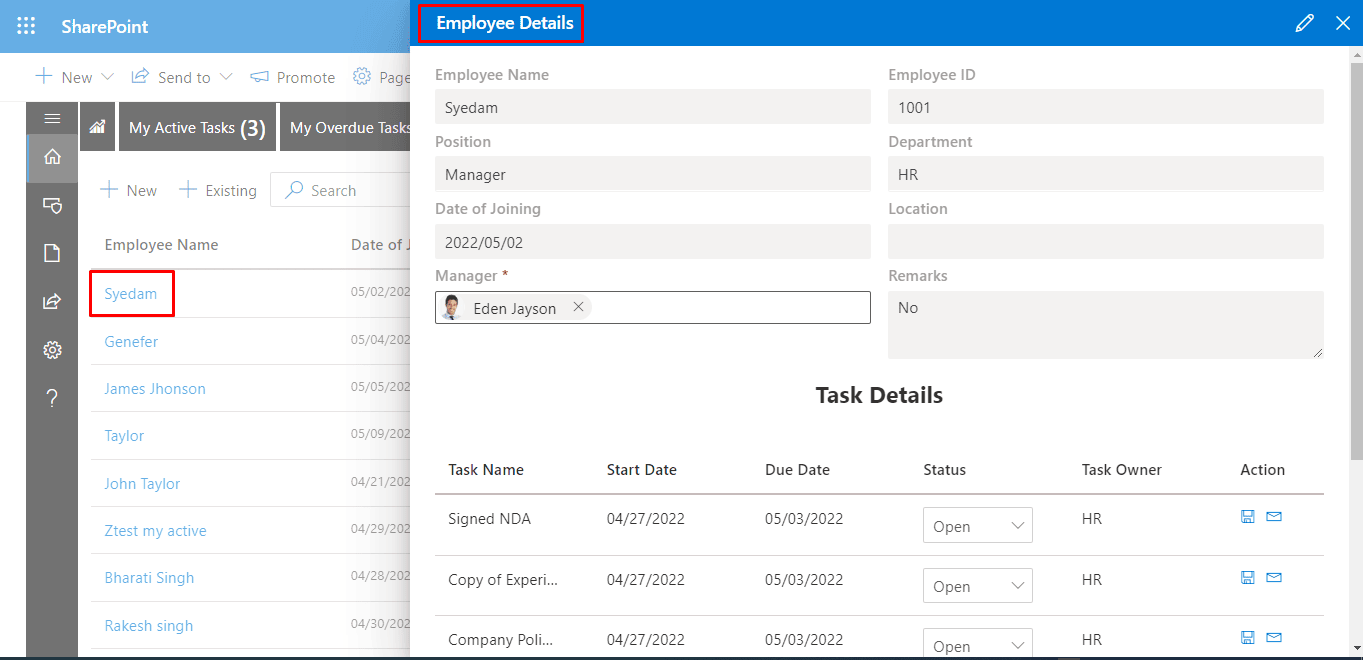
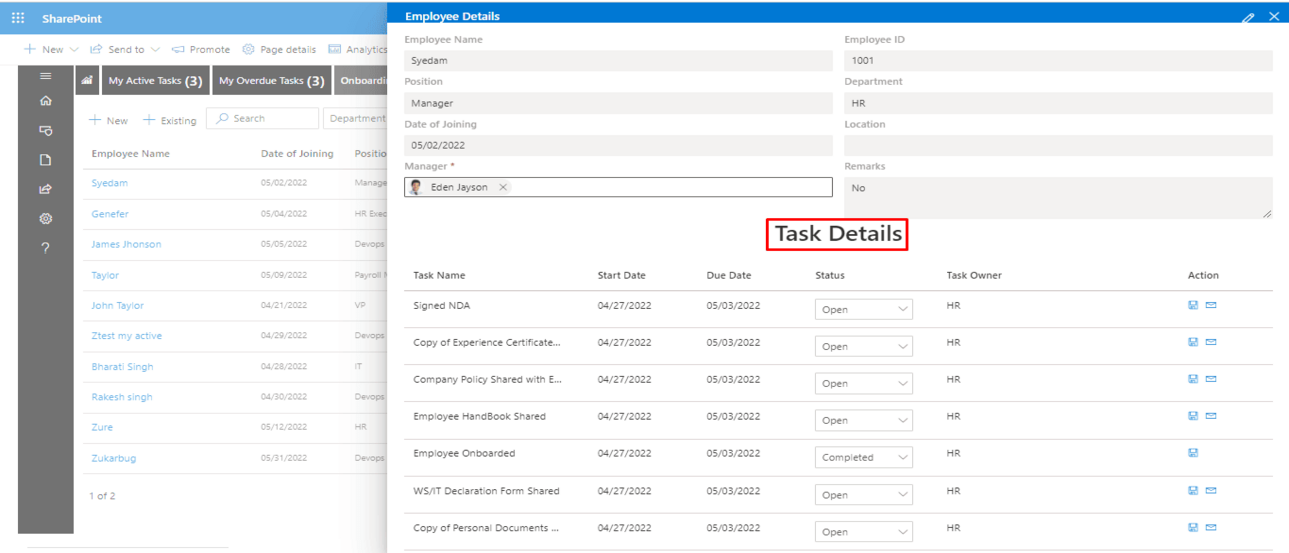
update content

diff --git a/employee-on-boarding/modern/admin/Process/onboarding/index.html b/employee-on-boarding/modern/admin/Process/onboarding/index.html
@@ -310,7 +310,7 @@ height="auto"></div>
         
          <br>
        </li>
-       <div><img src="new.png" onclick="openModal('new.png')" alt="" width="100%"
+       <div><img src="confidential_.png" onclick="openModal('confidential_.png')" alt="" width="100%"
         height="auto" ></div>
         <br>
        <li>
@@ -319,7 +319,7 @@ height="auto"></div>
          
        </li>
        <br>
-       <div><img src="new.png" onclick="openModal('new.png')" alt="" width="100%"
+       <div><img src="work.png" onclick="openModal('work.png')" alt="" width="100%"
         height="auto"  ></div>
        <br>
        <li>
@@ -328,7 +328,7 @@ height="auto"></div>
          
            <br>
        </li>
-       <div><img src="new.png" onclick="openModal('new.png')" alt="" width="100%"
+       <div><img src="task.png" onclick="openModal('task.png')" alt="" width="100%"
         height="auto"></div>
     </ol>
     <br>
@@ -342,20 +342,21 @@ height="auto"></div>
         <br><br>
         
       </li>
-      <div><img src="new.png" onclick="openModal('new.png')" alt="" width="100%"
+      <div><img src="existing.png" onclick="openModal('existing.png')" alt="" width="100%"
         height="auto"></div>
-      <br><br>
-        <li>
-          Once you add <b>Employee Name</b>, all details will fetch from HR365.
-          <br><br>
-         
-        </li>
-        <div><img src="Screen.png" onclick="openModal('Screen.png')" alt="" width="100%"
+      
+      <div class="notices note">
+        <div class="paragraph">
+            <p> Once you add <b>Employee Name</b>, all details will fetch from HR365.</p>
+        </div>
+    </div>
+        
+        <!-- <div><img src="Screen.png" onclick="openModal('Screen.png')" alt="" width="100%"
           height="auto"></div>
-       
-        <br>
+        -->
+        
       </li>
-      <br>
+     
      
     </ol>
     <u>
@@ -363,7 +364,7 @@ height="auto"></div>
      </u>
      <br><br>
      <ol>
-      Download the sample file and fill the details as per specified format in the sample and save it. Choose the same file and click on <b>Save</b> button
+      Download the sample file and fill the details as per specified format in the sample and save it. Choose the same file and click on <b>Save</b> button.
       <br><br>
       <div><img src="Screen.png" onclick="openModal('Screen.png')" alt="" width="100%"
         height="auto"></div>
@@ -375,14 +376,14 @@ height="auto"></div>
       <li>
        Click on the employee name, that displays <b>Employee details</b>.
        <br><br>
-       <div><img src="new.png" onclick="openModal('new.png')" alt="" width="100%"
+       <div><img src="details.png" onclick="openModal('details.png')" alt="" width="100%"
         height="auto"></div>
       </li>
       <br><br>
       <li>
         Manage the task by updating the status by selecting <b>open</b>, <b>In Progress</b>, <b>Completed</b> or <b>Abandoned</b>.
         <br><br>
-        <div><img src="new.png" onclick="openModal('new.png')" alt="" width="100%"
+        <div><img src="status.png" onclick="openModal('status.png')" alt="" width="100%"
           height="auto"></div>
       </li>
     </ol>
